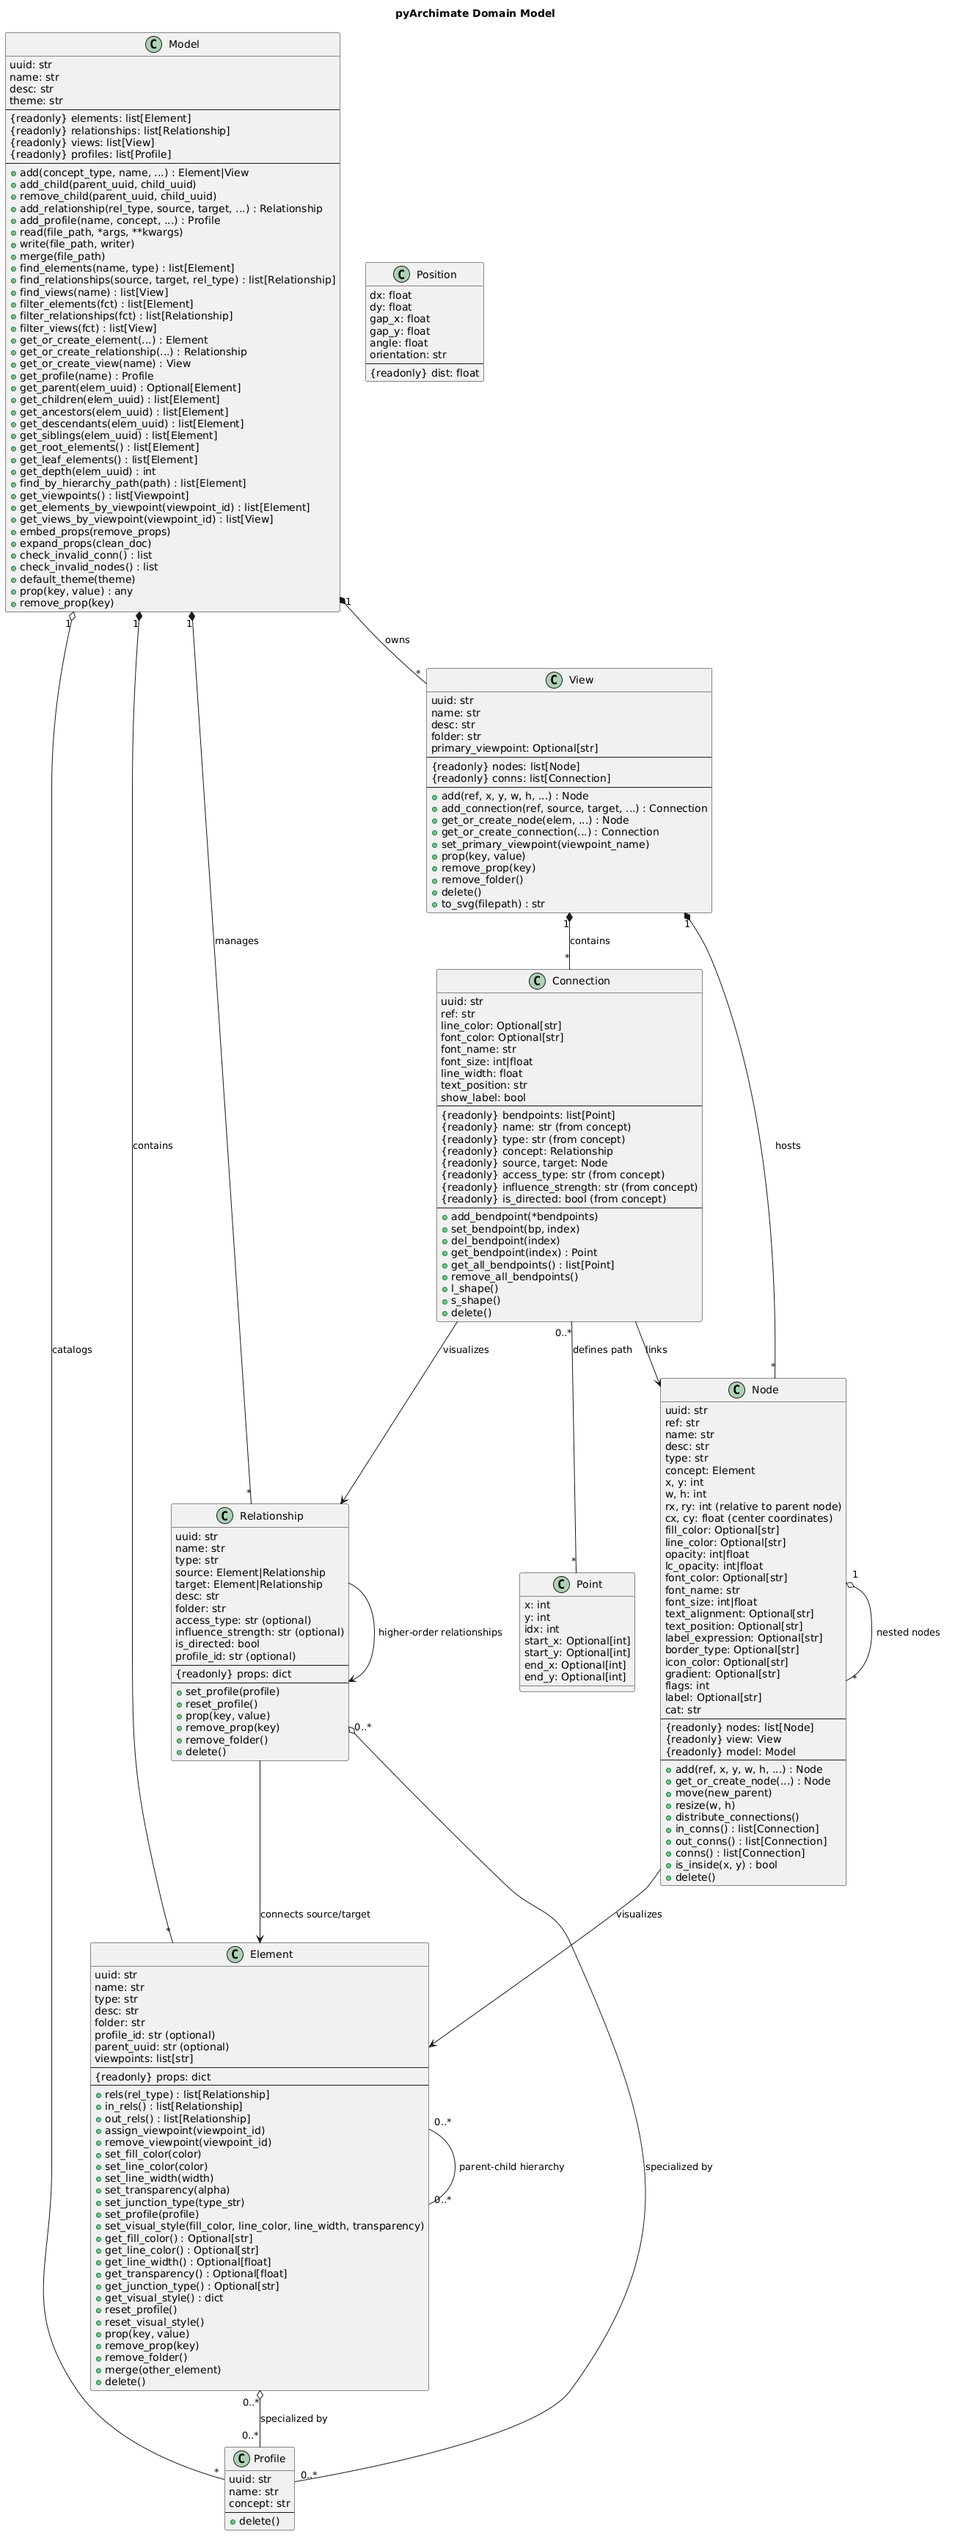
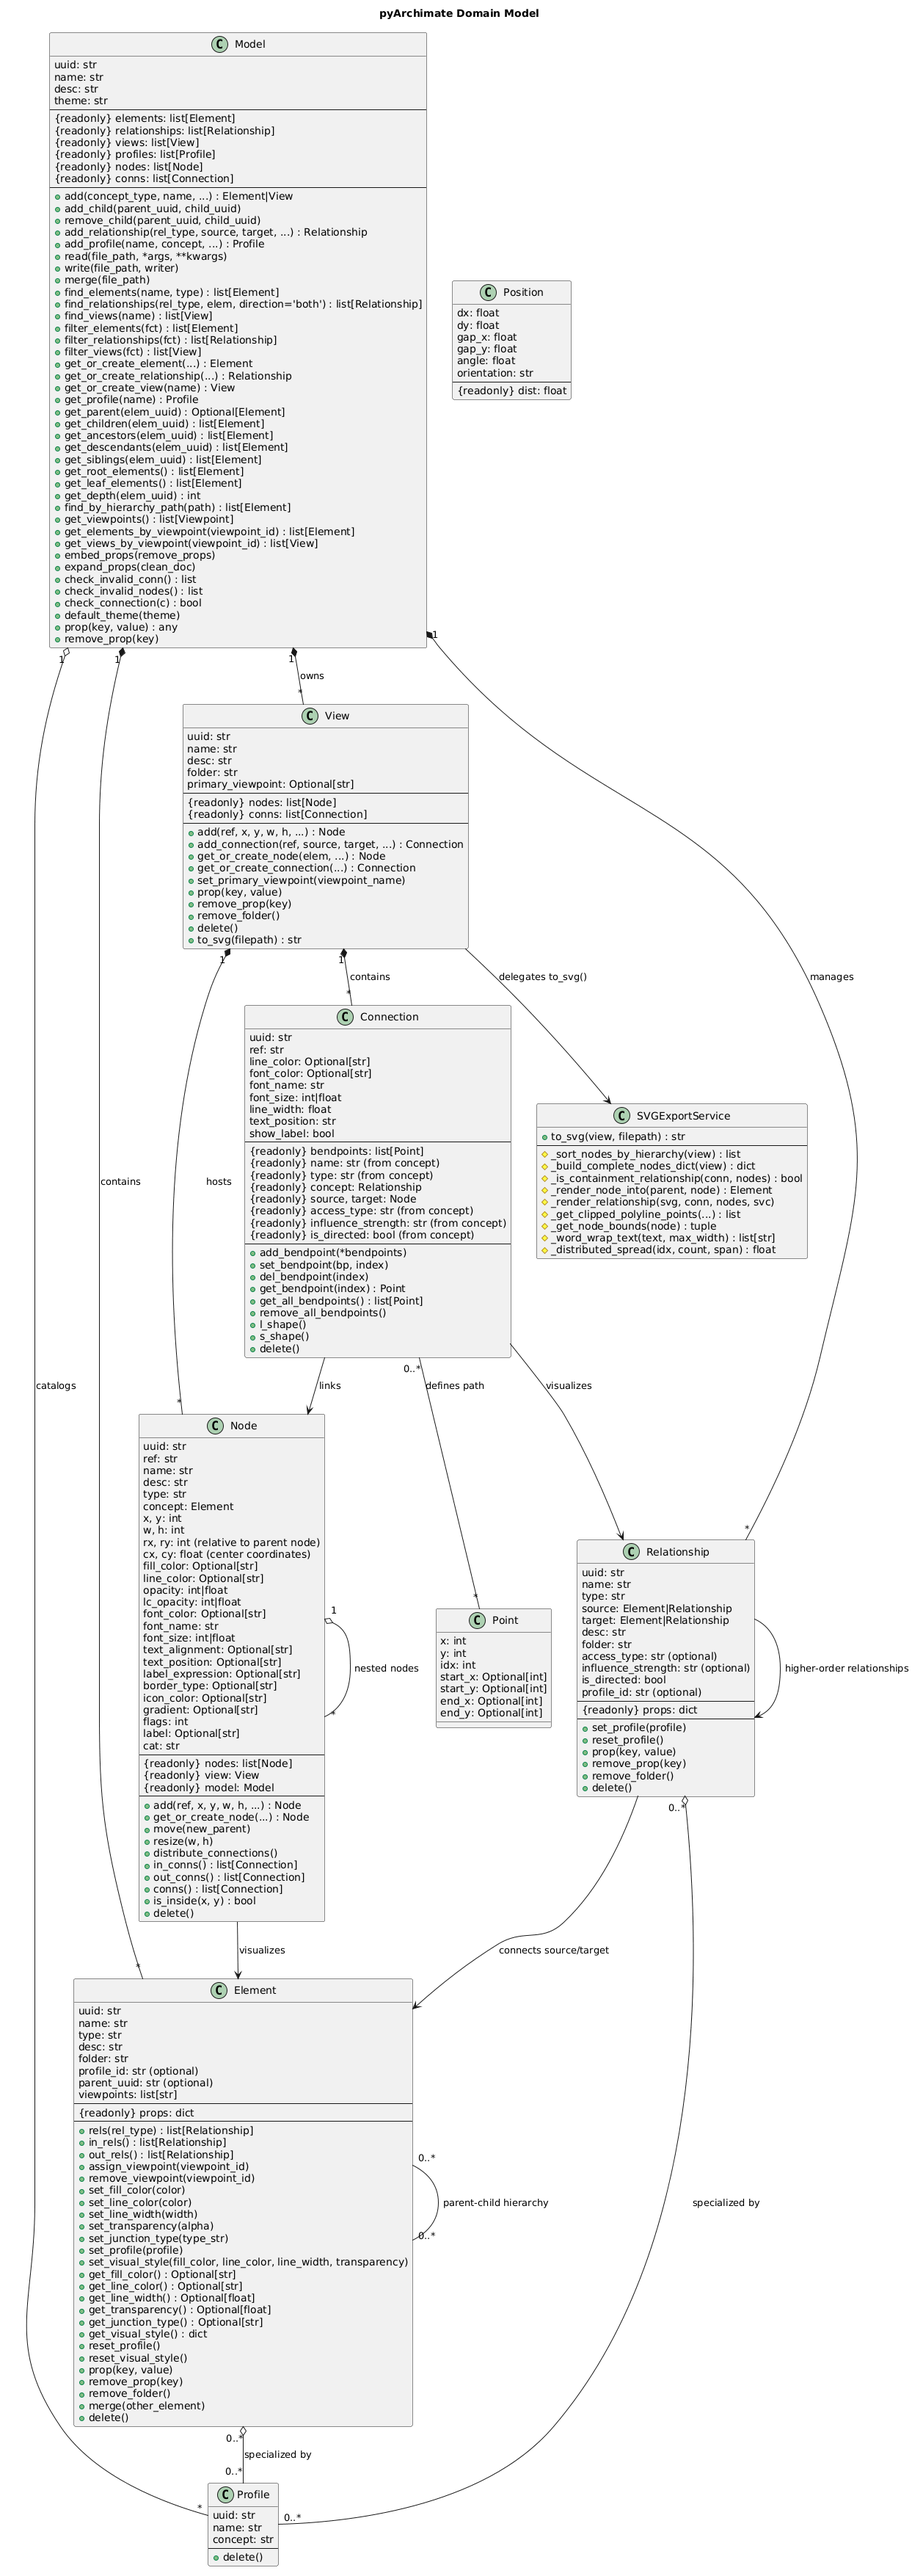
docs: regenerate diagrams and fix AI.md accuracy pre-release
- class.puml: add Model nodes/conns properties, fix find_relationships signature
- composite.puml: add Point start/end fields, Model _uuid/name/desc/theme fields
- AI.md: fix Writers table order, update resolved version numbers to v1.9.0

diff --git a/AI.md b/AI.md
@@ -292,8 +292,8 @@ Extract relationships and dependencies; build custom analytics or reports on arc
 
 | Value | Format |
 |---|---|
-| `Writers.archimate` | Archi tool `.archimate` XML (default) |
-| `Writers.archi` | OpenGroup ArchiMate Exchange XML |
+| `Writers.archi` | Archi tool `.archimate` XML (default) |
+| `Writers.archimate` | OpenGroup ArchiMate Exchange XML |
 | `Writers.csv` | CSV spreadsheet |
 
 ### Readers (enum)
@@ -518,5 +518,5 @@ Known deviations from the ArchiMate 3.x standard and Archi tool compatibility ga
 | Reader reads `modifier`; writer emits `influenceStrength` | v1.3.0 | Reader normalises both field names; round-trip fidelity restored |
 | Relationship docs parsed with `e.text` instead of `doc.text` | v1.3.0 | `_archireader_helpers.py` now extracts documentation correctly |
 | `bool("false")` always `True` for `nameVisible` | v1.3.1 | Replaced with `parse_bool()` (W3C xsd:boolean semantics) |
-| Bendpoint coordinates written as floats in OpenGroup XML | v1.4.x | Archi requires integer coordinates; bendpoints now round-tripped as integers in exchange format |
-| Connection endpoints not clipped at element boundary in SVG | v1.8.0 | Orthogonal clip applied at source/target boundary; bendpoints preserved exactly from model |
+| Bendpoint coordinates written as floats in OpenGroup XML | v1.9.0 | Archi requires integer coordinates; bendpoints round-tripped as integers (regression from v1.8.x re-fixed) |
+| Connection endpoints not clipped at element boundary in SVG | v1.9.0 | Orthogonal clip applied at source/target boundary including when bendpoints present; basic case first fixed in v1.8.0 |
